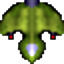
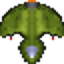
We updated the game assets. Again. Now our hero has a sprite sheet

diff --git a/AlienAlley.cpp b/AlienAlley.cpp
@@ -37,9 +37,6 @@ struct DIM_T
 
 struct SPRITES_T
 {
-	ALLEGRO_BITMAP* ship;
-	DIM_T ship_d;
-
 	ALLEGRO_BITMAP* ship_shot[2];
 	DIM_T ship_shot_d;
 
@@ -62,7 +59,7 @@ struct SHOT_T
 
 struct SHIP_T
 {
-	int x, y;
+	Sprite sprite;
 	int ship_max_x, ship_max_y;
 	int shot_timer;
 	int lives;
@@ -177,10 +174,11 @@ void keyboard_update(ALLEGRO_EVENT* event)
 
 void sprites_init()
 {
-	sprites.ship = al_load_bitmap("dat/gfx/hero.png");
-	InitializeCheck(sprites.ship, "dat/gfx/hero.png");
-	sprites.ship_d.w = al_get_bitmap_width(sprites.ship);
-	sprites.ship_d.h = al_get_bitmap_height(sprites.ship);
+	ALLEGRO_BITMAP* tmp_bmp;
+
+	tmp_bmp = al_load_bitmap("dat/gfx/hero.png");
+	InitializeCheck(tmp_bmp, "dat/gfx/hero.png");
+	ship.sprite.setBitmap(tmp_bmp, al_get_bitmap_height(tmp_bmp), al_get_bitmap_height(tmp_bmp), 2);	// since we have 32x32 bitmaps and the sheet is just 1 row
 
 	sprites.ship_shot[0] = al_load_bitmap("dat/gfx/hero_shot0.png");
 	InitializeCheck(sprites.ship_shot[0], "dat/gfx/hero_shot0.png");
@@ -215,7 +213,7 @@ void sprites_init()
 
 void sprites_deinit()
 {
-	al_destroy_bitmap(sprites.ship);
+	al_destroy_bitmap(ship.sprite.spriteSheet);
 
 	al_destroy_bitmap(sprites.ship_shot[0]);
 	al_destroy_bitmap(sprites.ship_shot[1]);
@@ -422,10 +420,10 @@ void shots_draw()
 
 void ship_init()
 {
-	ship.x = (screen_width / 2) - (sprites.ship_d.w / 2);
-	ship.y = (screen_height / 2) - (sprites.ship_d.h / 2);
-	ship.ship_max_x = screen_width - sprites.ship_d.w;
-	ship.ship_max_y = screen_height - sprites.ship_d.h;
+	ship.sprite.position.x = (screen_width / 2) - (ship.sprite.size.cx / 2);
+	ship.sprite.position.y = (screen_height / 2) - (ship.sprite.size.cy / 2);
+	ship.ship_max_x = screen_width - ship.sprite.size.cx;
+	ship.ship_max_y = screen_height - ship.sprite.size.cy;
 	ship.shot_timer = 0;
 	ship.lives = HUD::LIVES_MAX;
 	ship.shield = HUD::SHIELD_MAX;
@@ -444,34 +442,36 @@ void ship_update()
 		return;
 	}
 
+	ship.sprite.update();
+
 	if (key[ALLEGRO_KEY_LEFT])
-		ship.x -= SHIP_SPEED;
+		ship.sprite.position.x -= SHIP_SPEED;
 	if (key[ALLEGRO_KEY_RIGHT])
-		ship.x += SHIP_SPEED;
+		ship.sprite.position.x += SHIP_SPEED;
 	if (key[ALLEGRO_KEY_UP])
-		ship.y -= SHIP_SPEED;
+		ship.sprite.position.y -= SHIP_SPEED;
 	if (key[ALLEGRO_KEY_DOWN])
-		ship.y += SHIP_SPEED;
+		ship.sprite.position.y += SHIP_SPEED;
 
-	if (ship.x < 0)
-		ship.x = 0;
-	if (ship.y < 0)
-		ship.y = 0;
+	if (ship.sprite.position.x < 0)
+		ship.sprite.position.x = 0;
+	if (ship.sprite.position.y < 0)
+		ship.sprite.position.y = 0;
 
-	if (ship.x > ship.ship_max_x) ship.x = ship.ship_max_x;
-	if (ship.y > ship.ship_max_y) ship.y = ship.ship_max_y;
+	if (ship.sprite.position.x > ship.ship_max_x) ship.sprite.position.x = ship.ship_max_x;
+	if (ship.sprite.position.y > ship.ship_max_y) ship.sprite.position.y = ship.ship_max_y;
 
 	if (ship.invincible_timer)
 		ship.invincible_timer--;
 	else
 	{
-		if (shots_collide(true, ship.x, ship.y, sprites.ship_d.w, sprites.ship_d.h))
+		if (shots_collide(true, ship.sprite.position.x, ship.sprite.position.y, ship.sprite.size.cx, ship.sprite.size.cy))
 		{
 			ship.shield -= 2;
 			if (ship.shield <= 0 && ship.lives > 0)
 			{
-				int x = ship.x + (sprites.ship_d.w / 2);
-				int y = ship.y + (sprites.ship_d.h / 2);
+				int x = ship.sprite.position.x + (ship.sprite.size.cx / 2);
+				int y = ship.sprite.position.y + (ship.sprite.size.cy / 2);
 				FX->add(FX->EXPLOSION_SMALL, x, y);
 
 				ship.lives--;
@@ -488,8 +488,8 @@ void ship_update()
 		ship.shot_timer--;
 	else if (key[ALLEGRO_KEY_LCTRL] || key[ALLEGRO_KEY_SPACE] || key[ALLEGRO_KEY_RCTRL])
 	{
-		int x = ship.x + (sprites.ship_d.w / 2);
-		if (shots_add(true, false, x, ship.y))
+		int x = ship.sprite.position.x + (ship.sprite.size.cx / 2);
+		if (shots_add(true, false, x, ship.sprite.position.y))
 			ship.shot_timer = 5;
 	}
 }
@@ -503,7 +503,7 @@ void ship_draw()
 	if (((ship.invincible_timer / 2) % 3) == 1)
 		return;
 
-	al_draw_bitmap(sprites.ship, ship.x, ship.y, 0);
+	ship.sprite.draw();
 }
 
 // --- aliens ---

diff --git a/Sprite.h b/Sprite.h
@@ -17,8 +17,6 @@
 class Sprite
 {
 private:
-	ALLEGRO_BITMAP* spriteSheet;					// pointer to sprite frame bitmaps
-	CSize size;										// sprite size
 	CSize frames;									// total frames (cx * cy)
 	int currentFrame;								// current sprite frame
 	int frameSkipMax;								// total number of frames to skip while updating
@@ -26,6 +24,8 @@ private:
 
 public:
 
+	ALLEGRO_BITMAP* spriteSheet;					// pointer to sprite frame bitmaps
+	CSize size;										// sprite size
 	CPoint position;								// position of sprite on 2D plane
 	int animationDirection;							// animation driection (can be -ve or +ve)
 	int playCount;									// number of times our animation has been played

diff --git a/Sprite.cpp b/Sprite.cpp
@@ -34,6 +34,8 @@ bool Sprite::setBitmap(ALLEGRO_BITMAP* ssBitmap, int width, int height, int fram
 	}
 	else
 	{
+		if (width <= 0) width = height;
+		if (height <= 0) height = width;
 		size.SetSize(width, height);
 		frames.SetSize(al_get_bitmap_width(spriteSheet) / width, al_get_bitmap_height(spriteSheet) / height);
 		animationDirection = 1;							// forward animation
